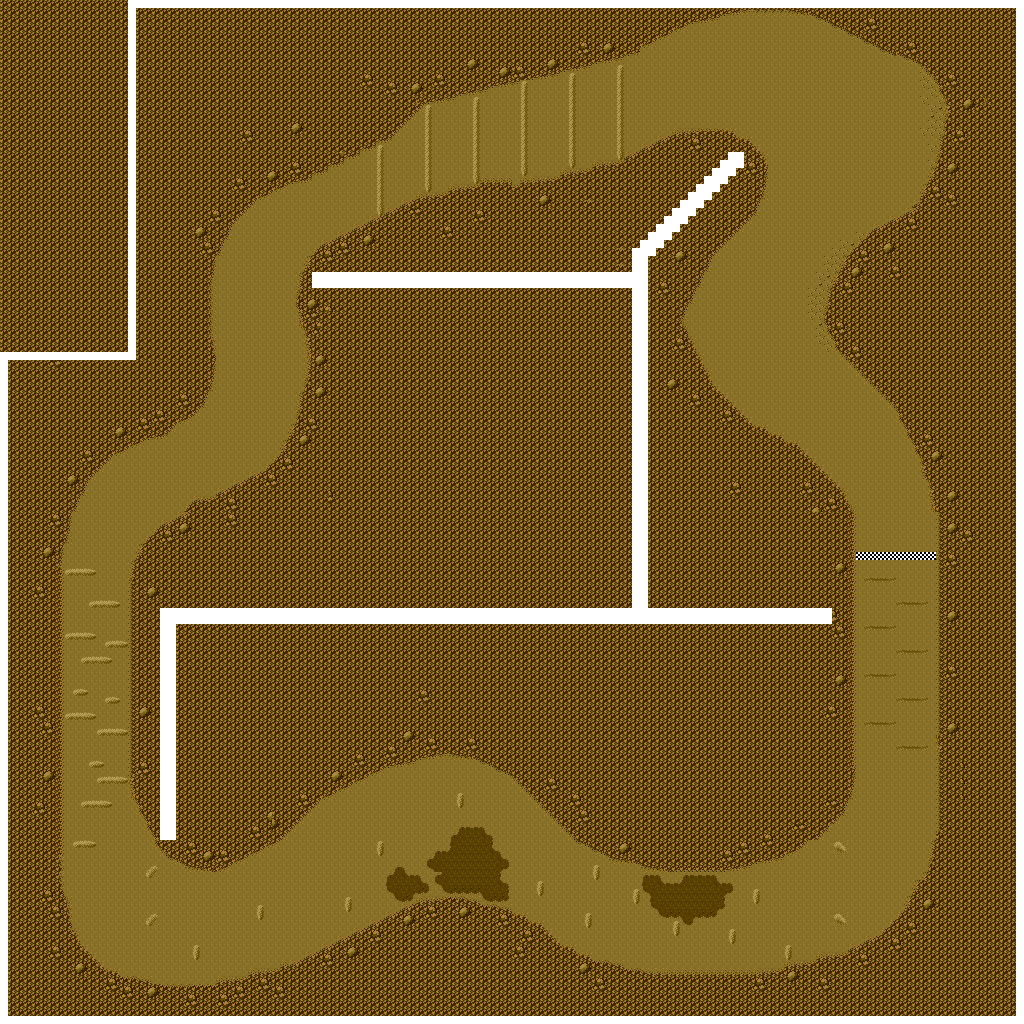
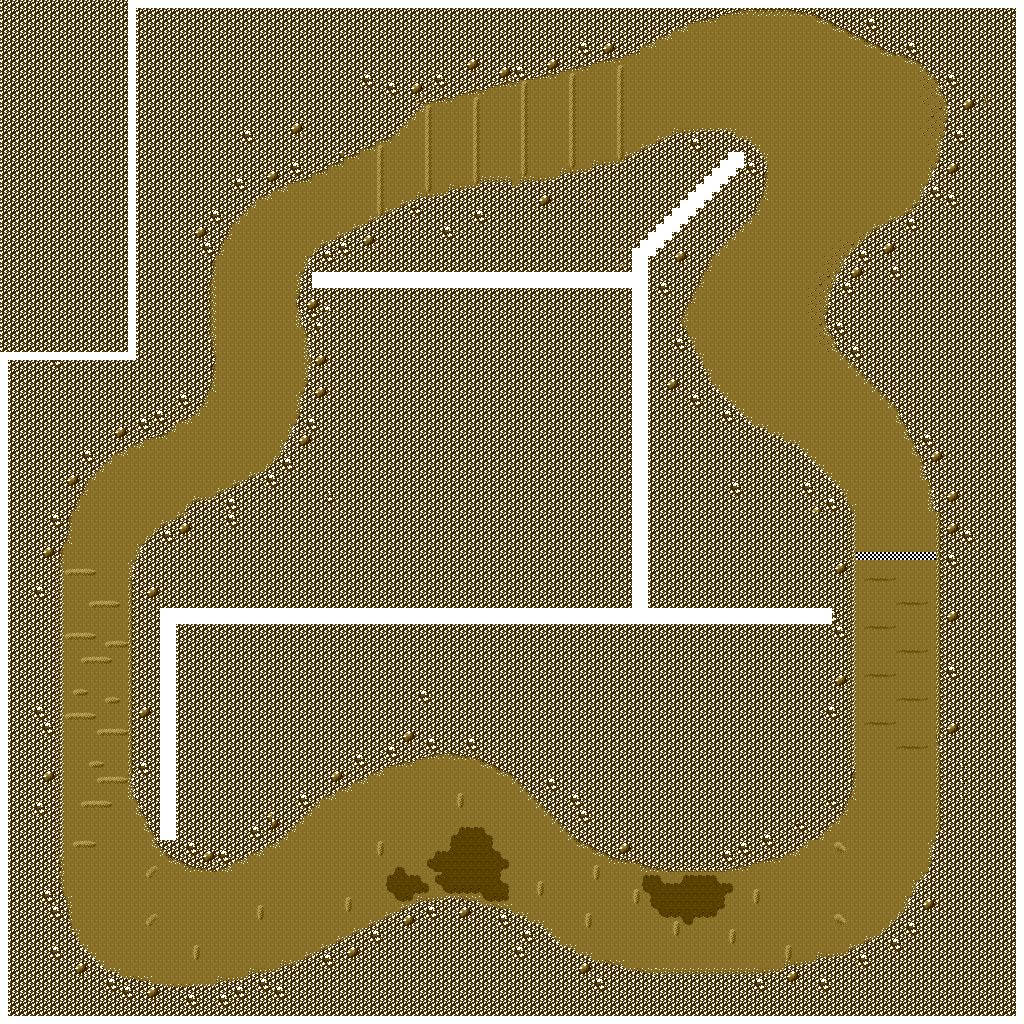
fixed assets

Changed region(s): [[0.125, 0.125, 0.8438, 0.8438], [0.0, 0.0, 1.0, 1.0]]

diff --git a/tracks.cpp b/tracks.cpp
@@ -10,7 +10,7 @@ std::string path = "road/tracks/";
 Tracks::Tracks(std::string name){
     if (name.find("Bowser") != std::string::npos) {
         if (name.find("1") != std::string::npos) {
-            this->name = "Bower_Castle_1";
+            this->name = "Bowser_Castle_1";
             std::cout << "Loading " << this->name << std::endl;
             this->full = IMG_Load(Gamedata::getInstance().getXmlStr(path+name+"/full").c_str());
             this->track = IMG_Load(Gamedata::getInstance().getXmlStr(path+name+"/track").c_str());
@@ -26,7 +26,7 @@ Tracks::Tracks(std::string name){
 
         }
         if (name.find("2") != std::string::npos) {
-            this->name = "Bower_Castle_2";
+            this->name = "Bowser_Castle_2";
             std::cout << "Loading " << this->name << std::endl;
             this->full = IMG_Load(Gamedata::getInstance().getXmlStr(path+name+"/full").c_str());
             this->track = IMG_Load(Gamedata::getInstance().getXmlStr(path+name+"/track").c_str());
@@ -42,7 +42,7 @@ Tracks::Tracks(std::string name){
 
         }
         if (name.find("3") != std::string::npos) {
-            this->name = "Bower_Castle_3";
+            this->name = "Bowser_Castle_3";
             std::cout << "Loading " << this->name << std::endl;
             this->full = IMG_Load(Gamedata::getInstance().getXmlStr(path+name+"/full").c_str());
             this->track = IMG_Load(Gamedata::getInstance().getXmlStr(path+name+"/track").c_str());
@@ -68,7 +68,7 @@ Tracks::Tracks(std::string name){
             this->grass = nullptr;
             this->lightWater = nullptr;
             this->darkWater = nullptr;
-            this->dirt = nullptr;
+            this->dirt = IMG_Load(Gamedata::getInstance().getXmlStr(path+name+"/dirt").c_str());
             this->jump = nullptr;
             this->lava = nullptr;
             this->empty = nullptr;
@@ -84,7 +84,7 @@ Tracks::Tracks(std::string name){
             this->grass = nullptr;
             this->lightWater = nullptr;
             this->darkWater = nullptr;
-            this->dirt = nullptr;
+            this->dirt = IMG_Load(Gamedata::getInstance().getXmlStr(path+name+"/dirt").c_str());
             this->jump = nullptr;
             this->lava = nullptr;
             this->empty = nullptr;
@@ -152,7 +152,7 @@ Tracks::Tracks(std::string name){
             this->dirt = nullptr;
             this->jump = IMG_Load(Gamedata::getInstance().getXmlStr(path+name+"/jump").c_str());
             this->lava = nullptr;
-            this->empty = nullptr;
+            this->empty = IMG_Load(Gamedata::getInstance().getXmlStr(path+name+"/empty").c_str());
         }
         
         if (name.find("2") != std::string::npos) {
@@ -169,7 +169,7 @@ Tracks::Tracks(std::string name){
             std::cout << "Loading " << this->name << std::endl;
             this->jump = IMG_Load(Gamedata::getInstance().getXmlStr(path+name+"/jump").c_str());
             this->lava = nullptr;
-            this->empty = nullptr;
+            this->empty = IMG_Load(Gamedata::getInstance().getXmlStr(path+name+"/empty").c_str());
         }
         if (name.find("3") != std::string::npos) {
             this->name = "Ghost_Valley_3";
@@ -184,7 +184,7 @@ Tracks::Tracks(std::string name){
             this->dirt = nullptr;
             this->jump = IMG_Load(Gamedata::getInstance().getXmlStr(path+name+"/jump").c_str());
             this->lava = nullptr;
-            this->empty = nullptr;
+            this->empty = IMG_Load(Gamedata::getInstance().getXmlStr(path+name+"/empty").c_str());
         }
     }
     if (name.find("Koopa") != std::string::npos) {

diff --git a/engine.cpp b/engine.cpp
@@ -13,7 +13,10 @@
 #include "AngularSprite.h"
 #include "player.h"
 
-//Tracks t = Tracks("Mario_Circut_1");
+
+
+int currentCourse;
+
 
 Engine::~Engine() {
   for(auto track: ground)
@@ -21,19 +24,40 @@ Engine::~Engine() {
   std::cout << "Terminating program" << std::endl;
 }
 Engine::Engine() :
+  currentCourse(0),
   rc( RenderContext::getInstance() ),
   io( IoMod::getInstance() ),
   clock( Clock::getInstance() ),
   renderer( rc.getRenderer() ),
   viewport( Viewport::getInstance() ),
   roads({Tracks("Mario_Circut_1")}),
-ground({new AngularSprite("road", roads[0] ), new Player("Mario")}),
+  ground({new AngularSprite("road", roads[0] ), new Player("Mario")}),
   makeVideo( false)
 {
   
   Viewport::getInstance().setObjectToTrack(ground[0]);
   std::cout << "Loading complete" << std::endl;
   int count = 0;
+
+}
+
+Engine::Engine(std::vector<Tracks> t, int c) :
+currentCourse(c),
+rc( RenderContext::getInstance() ),
+io( IoMod::getInstance() ),
+clock( Clock::getInstance() ),
+renderer( rc.getRenderer() ),
+viewport( Viewport::getInstance() ),
+roads(t),
+ground({new AngularSprite("road", roads[c] ), new Player("Mario")}),
+makeVideo( false)
+{
+    Viewport::getInstance().setObjectToTrack(ground[0]);
+    //std::cout << "Loading complete" << std::endl;
+    int count = 0;
+    int currentCourse = c;
+    //std::cout << "currentCourse is " << currentCourse << std::endl;
+    //std::cout << "The current course is " << roads[currentCourse].getName() << std::endl;
 
 }
 
@@ -114,17 +138,19 @@ void Engine::play() {
       int p_x = static_cast<Player*>(ground[1])->getX();
       int p_y = static_cast<Player*>(ground[1])->getY();
         float velocity;
-        if (roads[0].getGrass() != nullptr) {
-            velocity = static_cast<AngularSprite*>(ground[0])->GrassVelocity(p_x,p_y,roads[0].getGrass());
+        //std::cout << "The current course is " << roads[currentCourse].getName() << std::endl;
+        if (roads[currentCourse].getGrass() != nullptr && roads[currentCourse].getDirt() == nullptr) {
+
+            velocity = static_cast<AngularSprite*>(ground[0])->GrassVelocity(p_x,p_y,roads[currentCourse].getGrass());
         }
-        else if (roads[0].getDirt() != nullptr) {
-            velocity = static_cast<AngularSprite*>(ground[0])->GrassVelocity(p_x,p_y,roads[0].getDirt());
+        else if (roads[currentCourse].getDirt() != nullptr && roads[currentCourse].getGrass() != nullptr) {
+            velocity = static_cast<AngularSprite*>(ground[0])->GrassVelocity(p_x,p_y,roads[currentCourse].getDirt());
         }
-        else if (roads[0].getDarkWater() != nullptr) {
-            velocity = static_cast<AngularSprite*>(ground[0])->GrassVelocity(p_x,p_y,roads[0].getDarkWater());
+        else if (roads[currentCourse].getDarkWater() != nullptr) {
+            velocity = static_cast<AngularSprite*>(ground[0])->GrassVelocity(p_x,p_y,roads[currentCourse].getDarkWater());
         }
-        else if (roads[0].getEmpty() != nullptr) {
-            velocity = static_cast<AngularSprite*>(ground[0])->GrassVelocity(p_x,p_y,roads[0].getEmpty());
+        else if (roads[currentCourse].getEmpty() != nullptr) {
+            velocity = static_cast<AngularSprite*>(ground[0])->GrassVelocity(p_x,p_y,roads[currentCourse].getEmpty());
         }
         else {
             velocity = 0.5f;

diff --git a/main.cpp b/main.cpp
@@ -1,10 +1,43 @@
 // Brian Malloy        Data-Driven Object oriented Game Construction
 #include "engine.h"
+#include "tracks.h"
 
 int main(int, char*[]) {
+    
+    std::vector<Tracks> Mushroom {
+        Tracks("Mario_Circut_1"),
+        Tracks("Donut_Plains_1"),
+        Tracks("Ghost_Valley_1"),
+        Tracks("Bowser_Castle_1"),
+        Tracks("Mario_Circut_2")};
+    
+    std::vector<Tracks> Flower {
+        Tracks("Choco_Island_1"),
+        Tracks("Ghost_Valley_2"),
+        Tracks("Donut_Plains_2"),
+        Tracks("Bowser_Castle_2"),
+        Tracks("Mario_Circut_3")};
+    
+    std::vector<Tracks> Star {
+        Tracks("Koopa_Beach_1"),
+        Tracks("Choco_Island_2"),
+        Tracks("Vanilla_Lake_1"),
+        Tracks("Bowser_Castle_3"),
+        Tracks("Mario_Circut_4")};
+    
+    std::vector<Tracks> Special {
+        Tracks("Donut_Plains_3"),
+        Tracks("Koopa_Beach_2"),
+        Tracks("Ghost_Valley_3"),
+        Tracks("Vanilla_Lake_2"),
+        Tracks("Rainbow_Road")};
+    
+    std::vector<std::vector<Tracks>> Cups {Mushroom, Flower, Star, Special};
+    
+    
    try {
-      Engine engine;
-      engine.play();
+      Engine *engine = new Engine(Cups[0], 2);
+      engine->play();
    }
    catch (const string& msg) { std::cout << msg << std::endl; }
    catch (...) {
@@ -12,3 +45,4 @@ int main(int, char*[]) {
    }
    return 0;
 }
+

diff --git a/engine.h b/engine.h
@@ -10,30 +10,31 @@
 
 class Engine {
 public:
-  Engine ();
-  ~Engine ();
-  void play();
+    Engine ();
+    Engine (std::vector<Tracks> t, int c);
+    ~Engine ();
+    void play();
 
 private:
-  const RenderContext& rc;
-  const IoMod& io;
-  Clock& clock;
-  SDL_Renderer * const renderer;
-  Viewport& viewport;
+    int currentCourse;
+    const RenderContext& rc;
+    const IoMod& io;
+    Clock& clock;
+    SDL_Renderer * const renderer;
+    Viewport& viewport;
     std::vector<Tracks> roads;
-  std::vector<Drawable*> ground;
-  bool makeVideo;
-
-  void draw() const;
-  void update(Uint32);
-
-  Engine(const Engine&)=delete;
-  Engine& operator=(const Engine&)=delete;
-  void printScales() const;
-  void checkForCollisions();
-  std::vector<std::string> people {"Mario", "Luigi","Peach","Bowser", "Koopa","Toad","DK","Yoshi"};
-  std::vector<Tracks> Cup(int cup);
-
-  int count = 0;
-
+    std::vector<Drawable*> ground;
+    bool makeVideo;
+    
+    void draw() const;
+    void update(Uint32);
+    
+    Engine(const Engine&)=delete;
+    Engine& operator=(const Engine&)=delete;
+    void printScales() const;
+    void checkForCollisions();
+    std::vector<std::string> people {"Mario", "Luigi","Peach","Bowser","Koopa","Toad","DK","Yoshi"};
+    
+    int count = 0;
+    
 };
